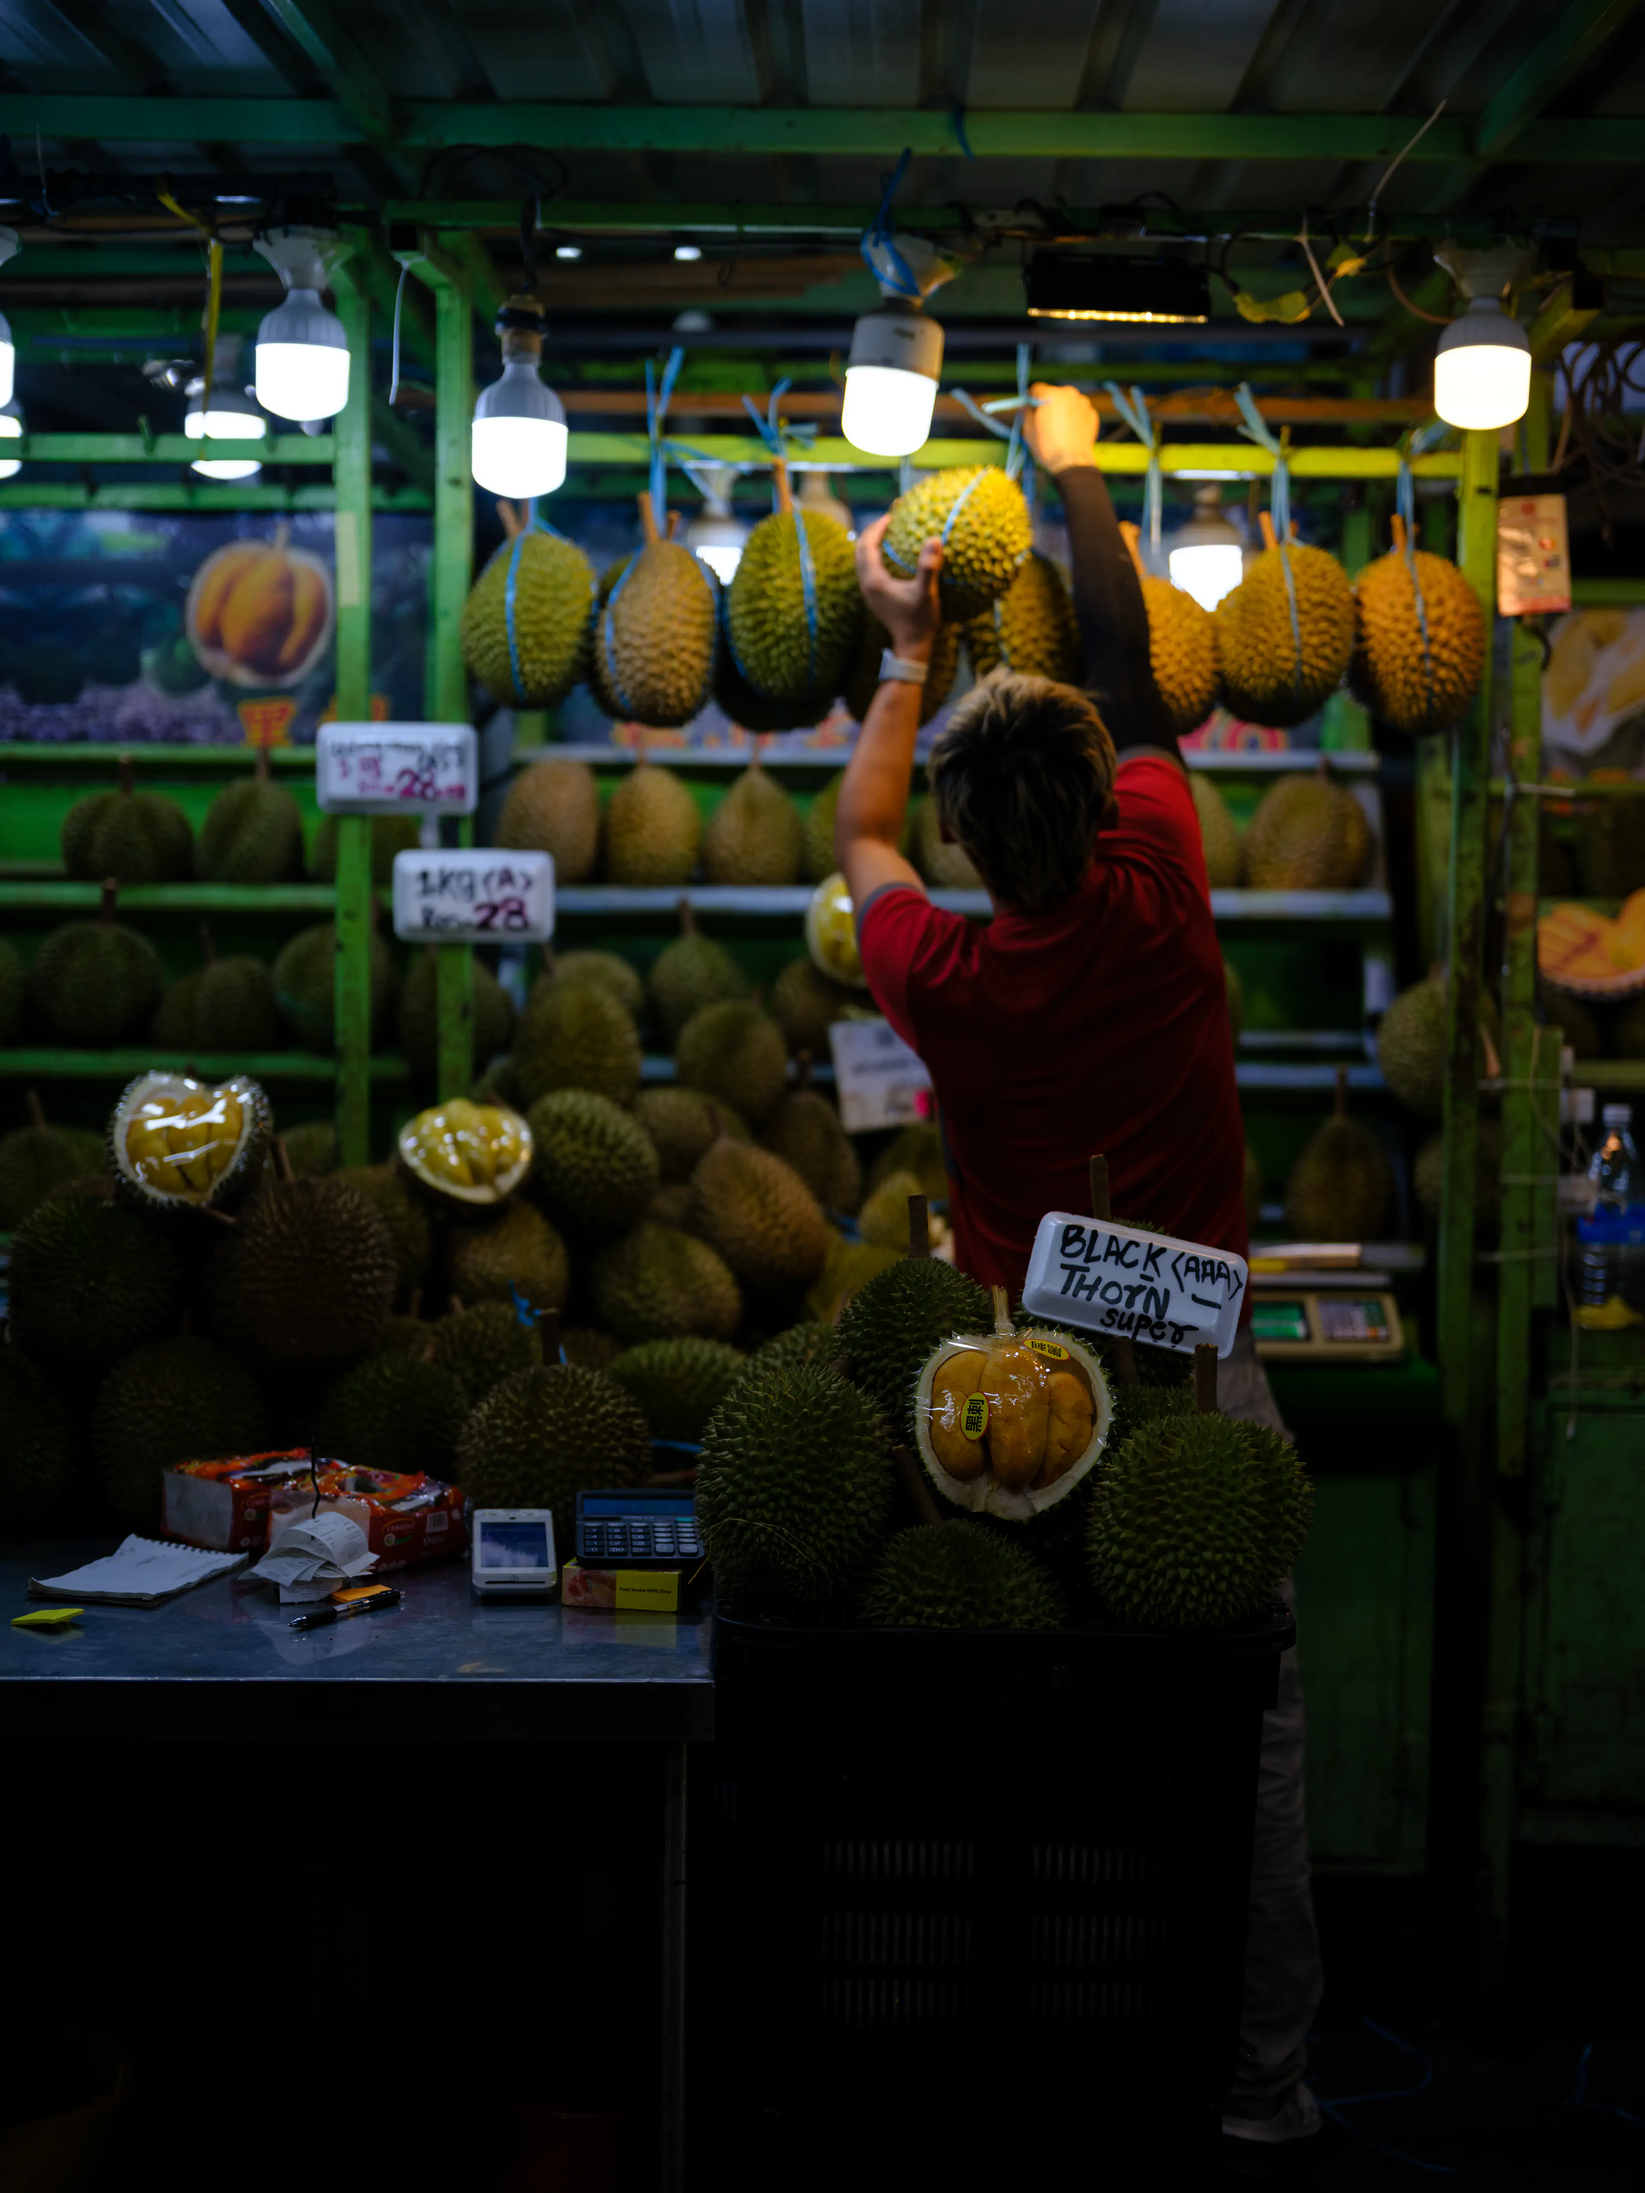
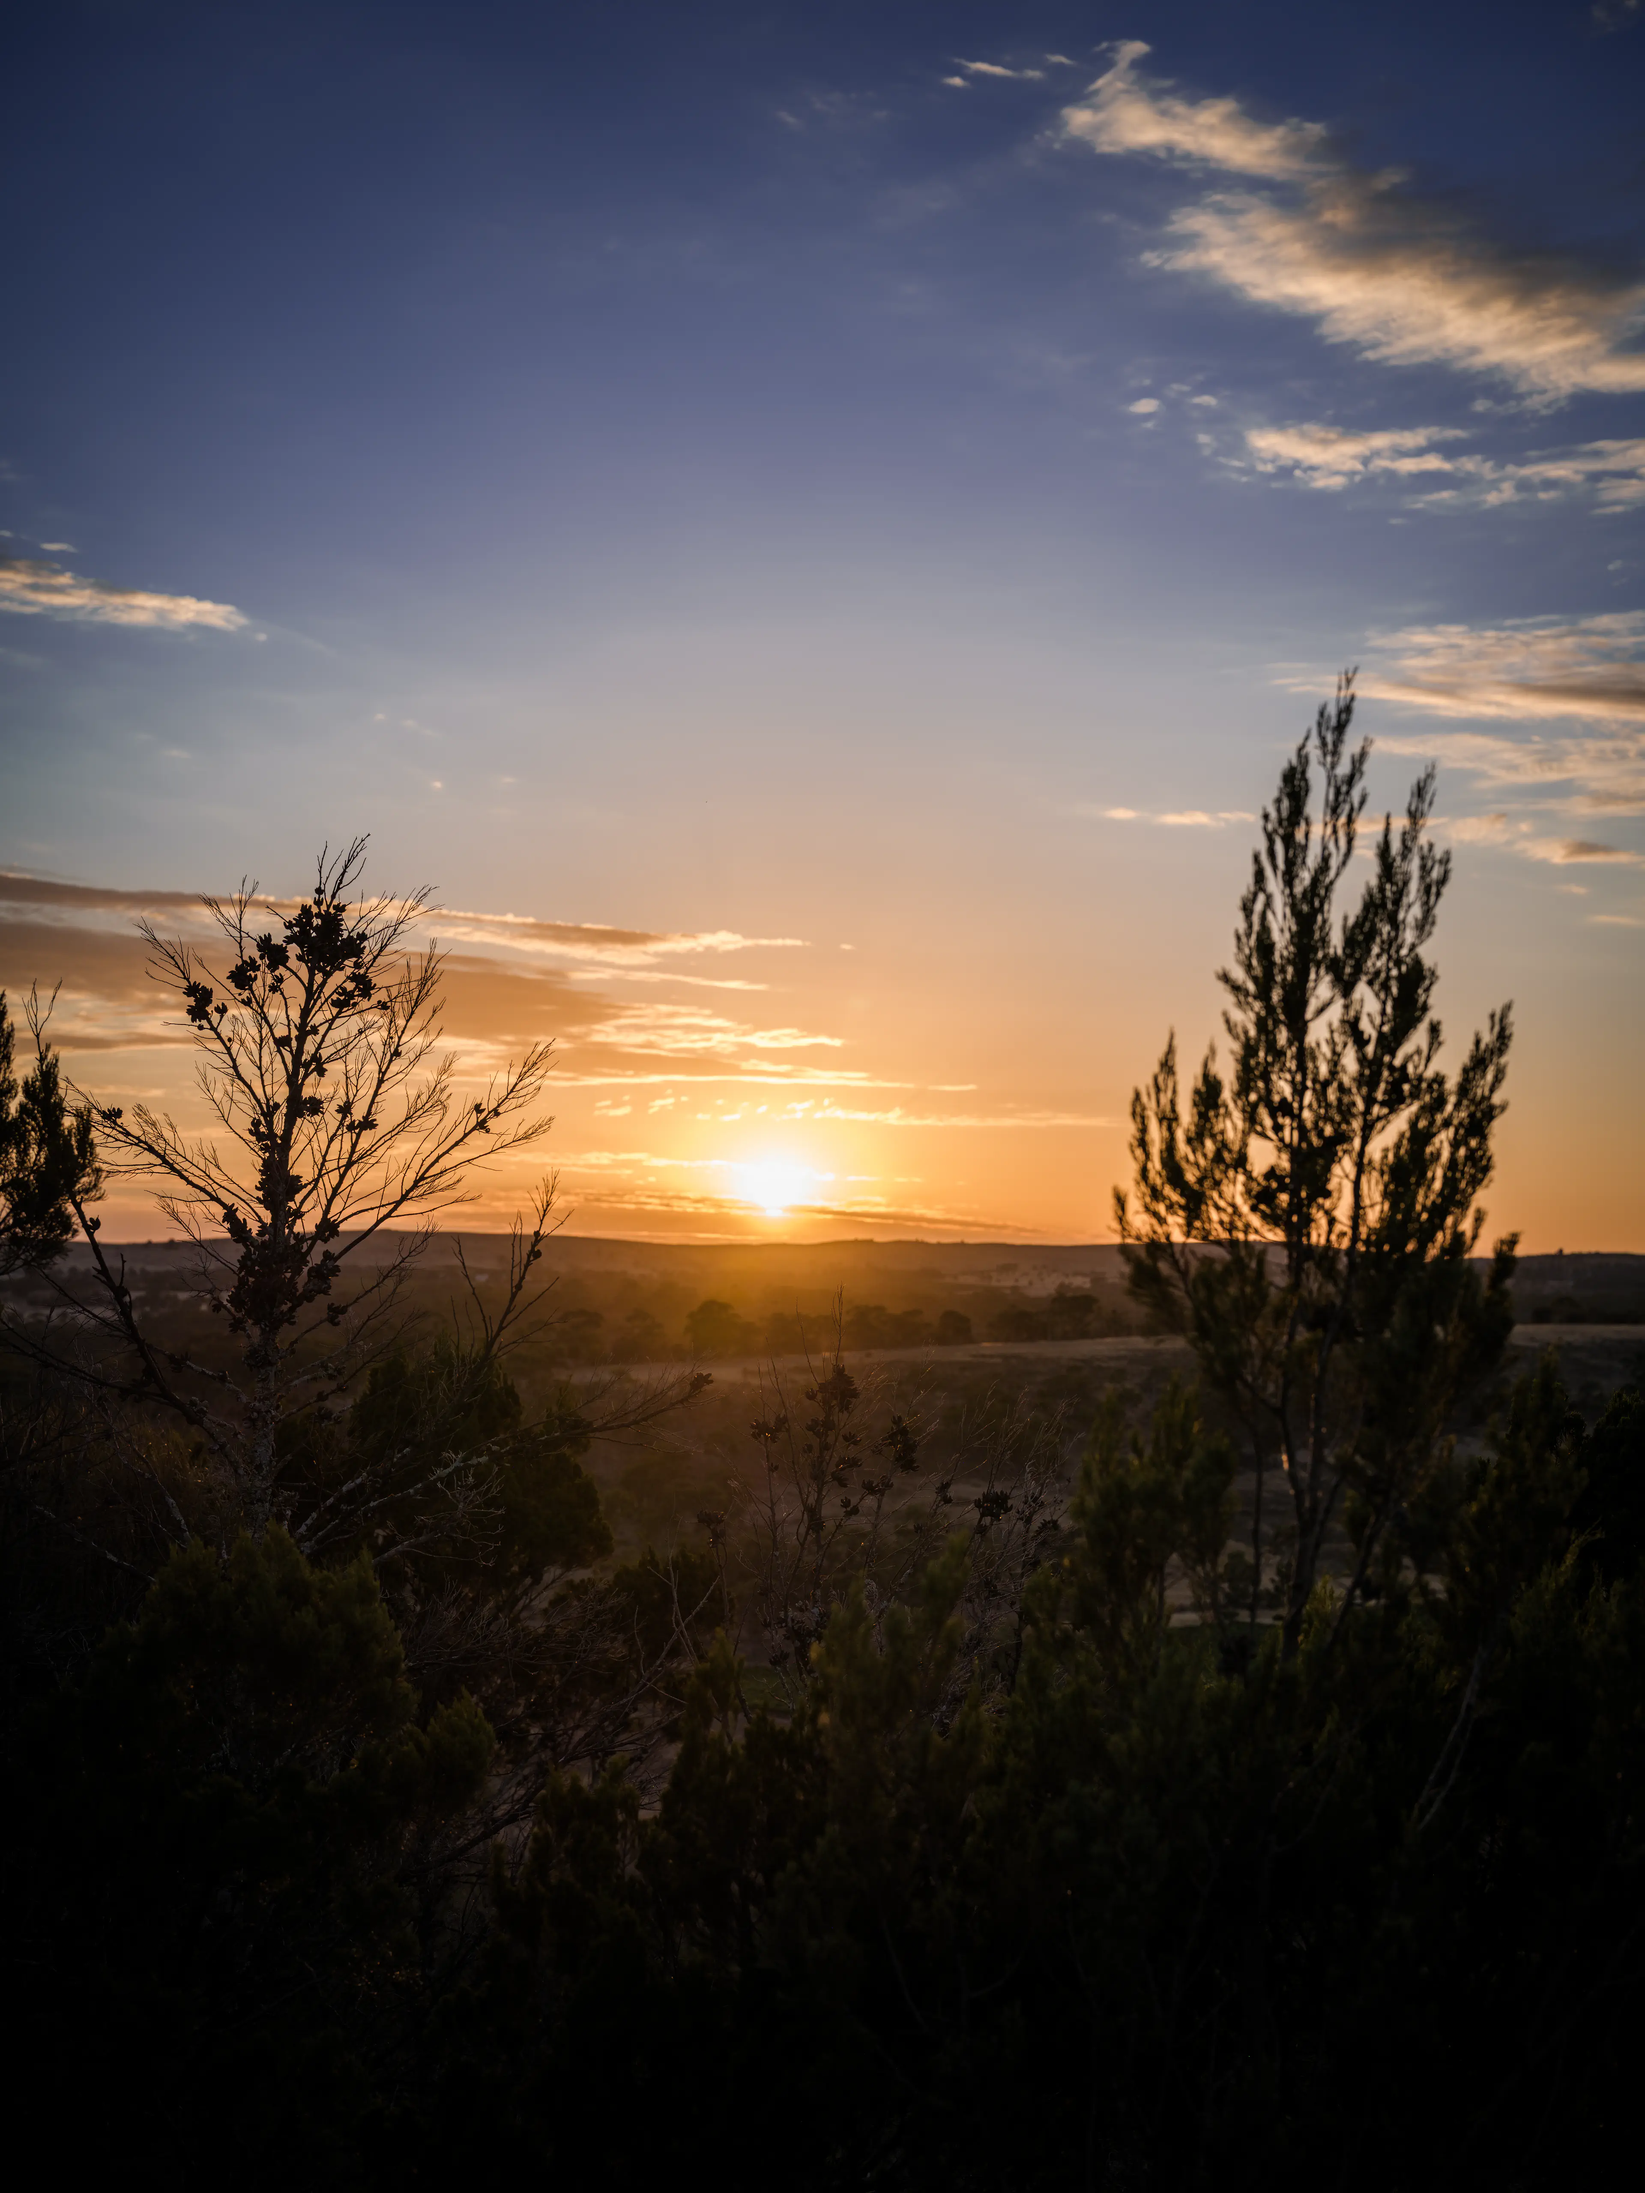
add randomised background display

diff --git a/base.js b/base.js
@@ -15,6 +15,7 @@ function sh(h){return(Math.max(0,h-510)-Math.max(0,h-765)-Math.max(0,h-1275));}
 function hc(h){return new Array(3).fill().map((x,i)=>sh(ch(h+(510*i))))}
 function hu(h){return "rgb("+hc(h).join(",")+")"}
 
+
 function ui(i,v,a){x(a)?e(i).setAttribute(a,v):e(i).innerHTML=v}
 function ut(i){return e(i).innerText}
 function uh(d,ids,t){
@@ -23,6 +24,8 @@ function uh(d,ids,t){
   ids.forEach((n,i) => cc(n,hu(h-(i/l*1530))))}
 
 function b(x){document.body.style.background=x}
+function ri(x){return Math.trunc(Math.random()*x)+1}
+function rb(x){b("#000 url('bg/"+ri(x).toString().padStart(2,'0')+".webp') center / cover no-repeat")}
 
 function main() {uh(new Date(),['pp','m4a','m4b','m4c','m4d'],137);requestAnimationFrame(main)}
 
@@ -35,6 +38,4 @@ function rs() {
 
 ui('year',new Date().getFullYear());
 ui('em',"mailto:"+['me',ut('h')].join('@'),'href');
-rs();k('l');
-b("#000 url('bg/01.webp') center / cover no-repeat");
-main();
+rs();k('l');main();rb(6);
